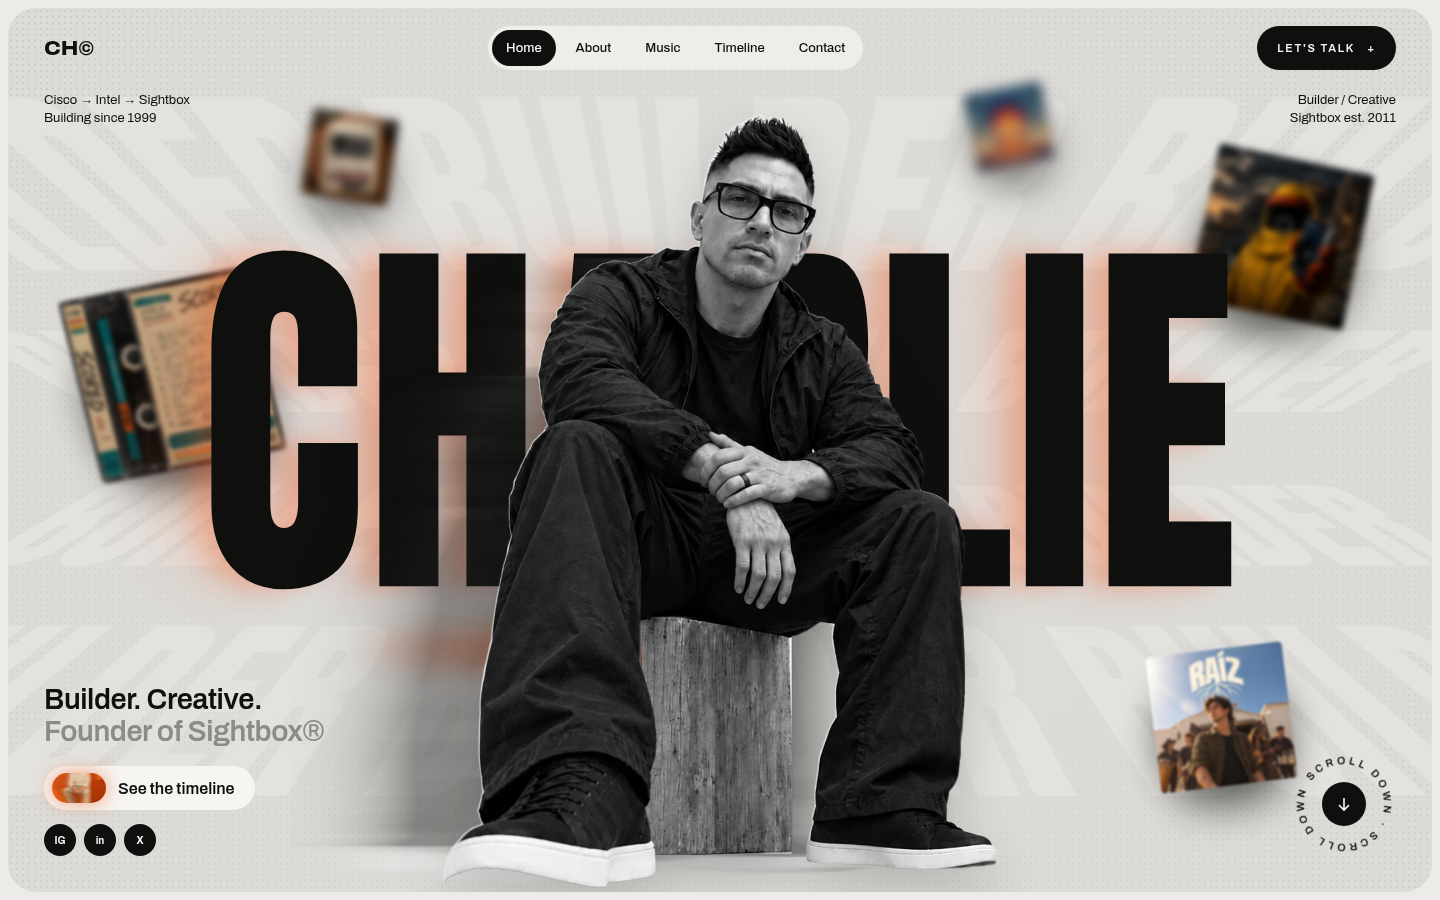
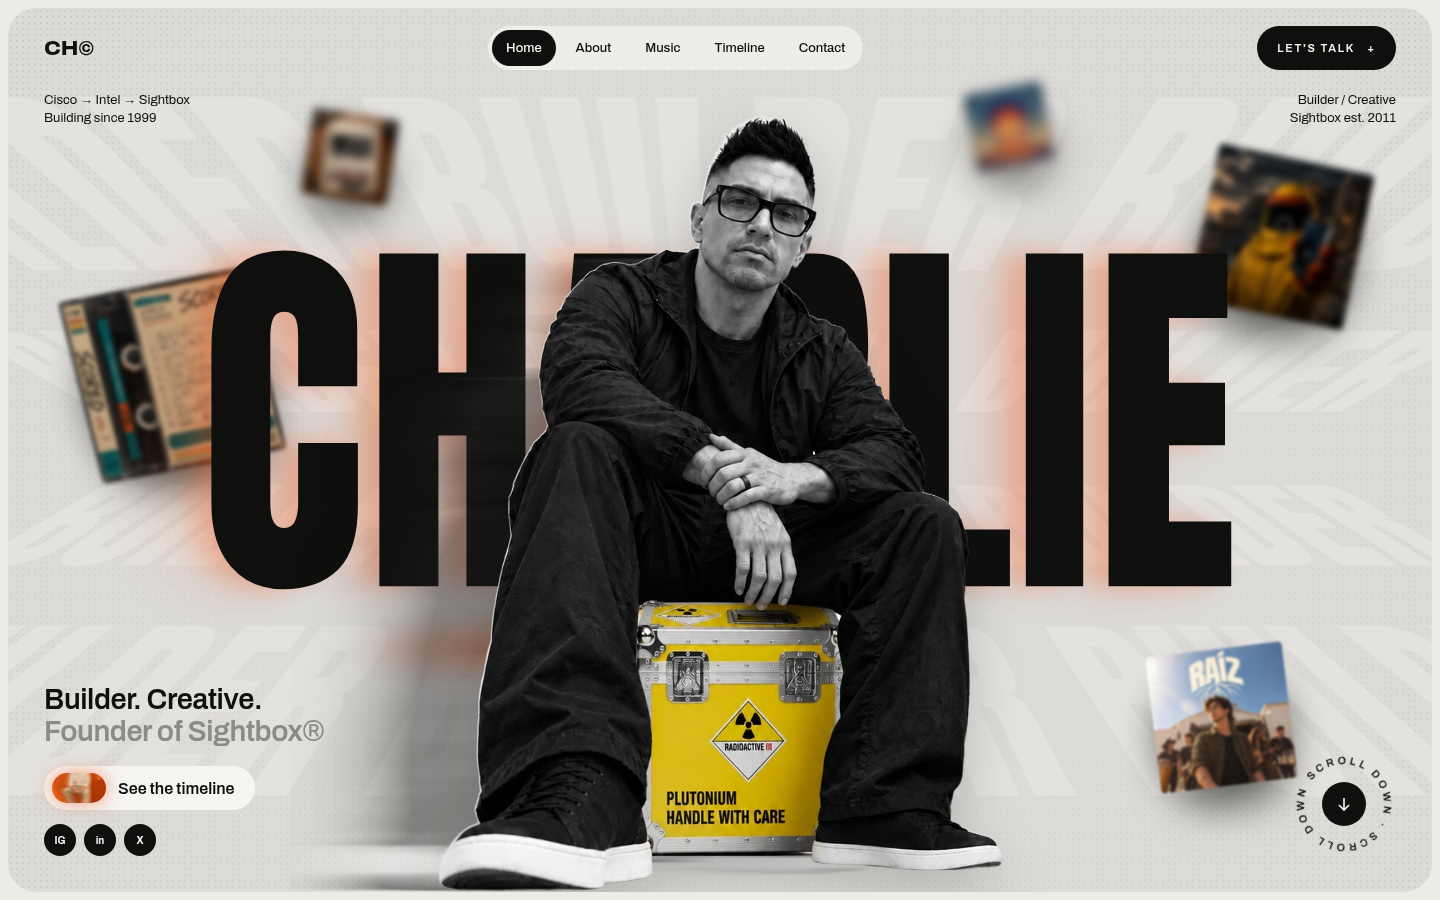
Hero: sit on the BTTF plutonium case (full color), Charlie stays B&W
Replaced the wooden block with the yellow Back to the Future plutonium
case. Charlie is forced to grayscale everywhere outside the case outline
so only the case carries color. Healed the upper-lip spot on the new edit,
moved the glasses LED to the new frame corner, and rebuilt the
(grayscale) motion trail.

Claude-Session: https://claude.ai/code/session_01W5NmLrmCfpinZRZs12n3aL

diff --git a/index.html b/index.html
@@ -93,14 +93,14 @@
   .ghost { position: absolute; z-index: 3; bottom: 0; left: 50%; height: 72%; width: auto; max-width: none; transform: translateX(-74%); opacity: .45; pointer-events: none; }
 
   /* Figure + Meta Ray-Ban capture LED */
-  .figure { position: absolute; z-index: 4; left: 50%; bottom: 0; height: 88%; aspect-ratio: 999 / 1400; transform: translateX(-50%); pointer-events: none; }
+  .figure { position: absolute; z-index: 4; left: 50%; bottom: 0; height: 88%; aspect-ratio: 1016 / 1400; transform: translateX(-50%); pointer-events: none; }
   .figure img { width: 100%; height: 100%; max-width: none; filter: drop-shadow(0 22px 26px rgba(0,0,0,.18)); }
-  .led { position: absolute; left: 49.2%; top: 8.8%; width: 44px; height: 44px; margin: -22px 0 0 -22px; border: 0; padding: 0; background: none; cursor: pointer; pointer-events: auto; border-radius: 50%; }
+  .led { position: absolute; left: 49.5%; top: 9.1%; width: 44px; height: 44px; margin: -22px 0 0 -22px; border: 0; padding: 0; background: none; cursor: pointer; pointer-events: auto; border-radius: 50%; }
   .led::before { content: ""; position: absolute; left: 50%; top: 50%; width: 6px; height: 6px; margin: -3px 0 0 -3px; border-radius: 50%; background: #fff; box-shadow: 0 0 6px 2px #fff, 0 0 16px 6px rgba(255,255,255,.75); animation: blink 1.6s steps(1, end) infinite; }
   .led::after { content: ""; position: absolute; inset: 8px; border-radius: 50%; border: 1px solid rgba(255,255,255,.0); transition: border-color .2s; }
   .led:hover::after, .led:focus-visible::after { border-color: rgba(255,255,255,.9); }
   .led:focus-visible { outline: none; }
-  .led-tip { position: absolute; left: calc(49.2% + 26px); top: calc(8.8% - 14px); white-space: nowrap; padding: 6px 10px; border-radius: 999px; background: var(--ink); color: #f6f5f2; font-size: 11px; letter-spacing: .08em; text-transform: uppercase; opacity: 0; transform: translateX(-6px); transition: opacity .25s, transform .25s; pointer-events: none; }
+  .led-tip { position: absolute; left: calc(49.5% + 26px); top: calc(9.1% - 14px); white-space: nowrap; padding: 6px 10px; border-radius: 999px; background: var(--ink); color: #f6f5f2; font-size: 11px; letter-spacing: .08em; text-transform: uppercase; opacity: 0; transform: translateX(-6px); transition: opacity .25s, transform .25s; pointer-events: none; }
   .led:hover + .led-tip, .led:focus-visible + .led-tip { opacity: 1; transform: none; }
   @keyframes blink { 0%, 55% { opacity: 1; } 56%, 100% { opacity: .08; } }
 
@@ -391,7 +391,7 @@
     <div class="streak" aria-hidden="true"></div>
     <img class="ghost" src="assets/charlie-trail.webp" alt="" aria-hidden="true">
     <div class="figure">
-      <img src="assets/charlie-bw-cutout.webp" alt="Black-and-white portrait of Charlie Hinojosa seated on a wooden block, wearing Ray-Ban Meta glasses, his left hand on top showing a black wedding band.">
+      <img src="assets/charlie-bw-cutout.webp" alt="Black-and-white portrait of Charlie Hinojosa wearing Ray-Ban Meta glasses, seated on the yellow Back to the Future plutonium case, shown in full color, his left hand on top showing a black wedding band.">
       <button class="led" type="button" id="led" aria-haspopup="dialog" aria-controls="pov"><span class="sr">See through Charlie's Ray-Ban Meta glasses</span></button>
       <span class="led-tip" aria-hidden="true">“Hey Meta, record”</span>
     </div>
